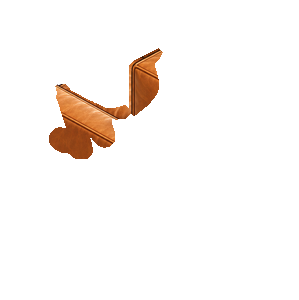
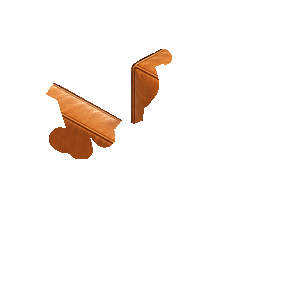
The seated examples as painted by hand: eight seats' front pieces touched up, the girl moved on the pew and the dining chair's back; their previews and docs/seats.png again

diff --git a/CHANGELOG.md b/CHANGELOG.md
@@ -15,6 +15,7 @@ Changes made because of a report or a request are marked *(feedback)*.
   reach the seat's edge - and the prop's front piece for them worked out from the two heights, no painting. Examples: the rain girl on
   the four turns of the armchair, the Tripo armchair, and seats from the author's game (a dining chair from both sides, a church pew,
   a curved park bench from both sides - `examples/seated/`).
+- The seated examples' front pieces were then touched up by hand (`"front_by": "painted by hand"` in their seat.json), and the girl moved on the pew and the dining chair's back.
 - On the touch-up page a seated character is **dragged to where they should sit**; letting go re-makes the seat there. *(feedback)*
 - A **polygon** on the touch-up page (P): click the corners, close it, and it is filled in the colour you are painting (or erased). *(feedback)*
 - Curved blocks (`"arc"`) for round things like a curved bench.
